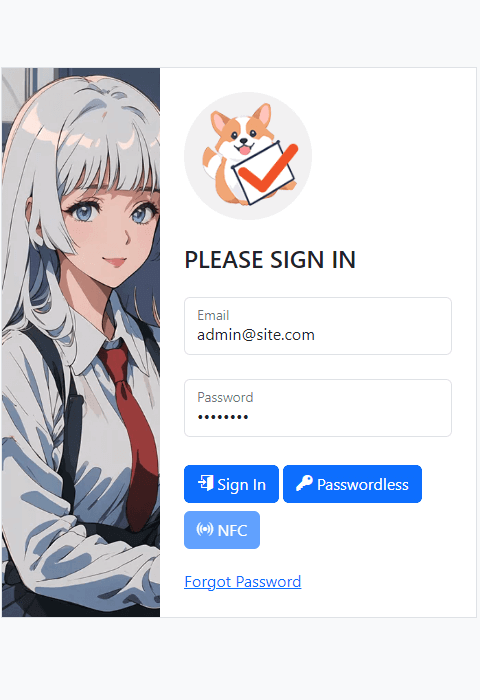
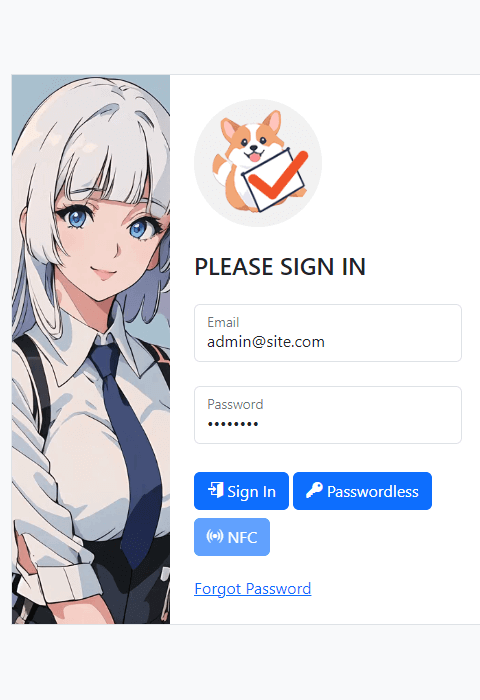
28 Sep 2023

diff --git a/lib/CORE-Install-JS.php b/lib/CORE-Install-JS.php
@@ -67,7 +67,7 @@ var install = {
     // (E1) LOCK INSTALL FORM
     install.toggle(false);
 
-    // (E2) DUMMY PROOFING TO THE MAX!
+    // (E2) URL DUMMY PROOFING TO THE MAX!
     let hHost = document.getElementsByName("host")[0],
         domain = hHost.value;
     domain = domain.trim();
@@ -77,8 +77,17 @@ var install = {
     if (domain.charAt(domain.length-1) != "/") { domain = domain + "/"; }
     hHost.value = domain;
 
+    // (E3) DUMMY PROOFING - API ENFORCE HTTPS BUT HOST URL IS NOT HTTPS
+    let https = document.getElementsByName("https")[0].value,
+        enforce = document.getElementsByName("apihttps")[0].value;
+    if (enforce==1 && https==0) {
+      alert("Please set your HOST URL to HTTPS if you want to enforce HTTPS for API calls. Also make sure that you have a valid SSL cert.");
+      install.toggle(true);
+      return false;
+    }
+
     <?php if (I_USER) { ?>
-    // (E3) ADMIN PASSWORD
+    // (E4) ADMIN PASSWORD
     var pass = document.getElementsByName("apass")[0],
         cpass = document.getElementsByName("apassc")[0];
     if (pass.value != cpass.value) {
@@ -87,7 +96,7 @@ var install = {
       return false;
     }
 
-    // (E4) PASSWORD STRENGTH CHECK - AT LEAST 8 CHARACTERS ALPHANUMERIC
+    // (E5) PASSWORD STRENGTH CHECK - AT LEAST 8 CHARACTERS ALPHANUMERIC
     if (!/^(?=.*[0-9])(?=.*[A-Z]).{8,20}$/i.test(pass.value)) {
       alert("Password must be at least 8 characters alphanumeric");
       install.toggle(true);
@@ -95,15 +104,15 @@ var install = {
     }
     <?php } ?>
 
-    // (E5) URL PATH
+    // (E6) URL PATH
     let url = (document.getElementsByName("https")[0].value=="0" ? "http" : "https")
             + "://" + domain ;
 
-    // (E6) GENERATE HTACCESS
+    // (E7) GENERATE HTACCESS
     install.ajax(url, "E1", () => {
-      // (E7) VERIFY HTACCESS
+      // (E8) VERIFY HTACCESS
       install.ajax(url + "installer/test/", "E2", () => {
-        // (E8) PROCEED INSTALLATION
+        // (E9) PROCEED INSTALLATION
         install.ajax(url, "F", () => {
           alert("Installation complete, this page will now reload.");
           location.href = url;

diff --git a/pages/PAGE-forgot.php b/pages/PAGE-forgot.php
@@ -6,6 +6,7 @@ if (isset($_SESSION["user"])) { $_CORE->redirect(); }
 if (!isset($_GET["i"]) && !isset($_GET["h"])) {
 $_PMETA = ["load" => [["s", HOST_ASSETS."PAGE-forgot.js", "defer"]]];
 require PATH_PAGES . "TEMPLATE-top.php"; ?>
+<div class="container">
 <div class="row justify-content-center">
 <div class="col-md-10 bg-white border">
 <div class="row">
@@ -31,6 +32,7 @@ require PATH_PAGES . "TEMPLATE-top.php"; ?>
 </div>
 </div>
 </div>
+</div>
 <?php require PATH_PAGES . "TEMPLATE-bottom.php"; }
 
 // (C) PART 2 - VALIDATION
@@ -38,6 +40,7 @@ else {
 $_CORE->load("Forgot");
 $pass = $_CORE->Forgot->reset($_GET["i"], $_GET["h"]);
 require PATH_PAGES . "TEMPLATE-top.php"; ?>
+<div class="container">
 <div class="row justify-content-center">
 <div class="col-md-10 bg-white border">
 <div class="row">
@@ -54,6 +57,7 @@ require PATH_PAGES . "TEMPLATE-top.php"; ?>
       <a href="<?=HOST_BASE?>login">Back To Login</a>
     </div>
   </div>
+</div>
 </div>
 </div>
 </div>

diff --git a/lib/CORE-Install-HTML.php b/lib/CORE-Install-HTML.php
@@ -12,6 +12,9 @@ unset($uHOST); unset($uIDX);
 if (I_PUSH && I_OPENSSL) {
   require PATH_LIB . "webpush/autoload.php";
   define("I_VAPID", Minishlink\WebPush\VAPID::createVapidKeys());
+  if (I_VAPID==null || I_VAPID==false || I_VAPID=="") {
+    exit("Failed to generate push notification VAPID keys. Make sure that OpenSSL is properly installed and configured.");
+  }
 }
 
 // (C) HTML ?>
@@ -77,8 +80,11 @@ if (I_PUSH && I_OPENSSL) {
           </select>
           <label>Enforce HTTPS?</label>
         </div>
+        <div class="text-secondary">
+          * Once enforced, API will only respond to HTTPS calls. Recommended for live servers.
+        </div>
         <div class="text-secondary mb-2">
-          * If enforced, API will only respond to HTTPS calls - Recommended to set "yes" for live servers.
+          * The host URL above need to be set to "HTTPS" if you want to enforce this.
         </div>
 
         <div class="form-floating mb-2">

diff --git a/pages/A-about.php b/pages/A-about.php
@@ -11,7 +11,7 @@
     <li><a href="https://code-boxx.com/i-was-here-php-attendance-system/#sec-use" target="_blank">
       How To Use?
     </a></li>
-    <li><a href="https://code-boxx.com/i-was-here-php-attendance-system/#sec-faq" target="_blank">
+    <li><a href="https://code-boxx.com/core-boxx-php-framework/#sec-faq" target="_blank">
       FAQ
     </a></li>
     <li><a href="https://code-boxx.com/i-was-here-php-attendance-system/#sec-dev" target="_blank">
@@ -35,6 +35,9 @@
   </a>
   <a class="my-1 btn btn-danger d-flex-inline" href="https://payhip.com/codeboxx" target="_blank">
     <i class="ico-sm icon-cart"></i> Code Boxx Store
+  </a>
+  <a class="my-1 btn btn-danger d-flex-inline" href="https://github.com/sponsors/code-boxx" target="_blank">
+    <i class="ico-sm icon-heart"></i> GitHub Sponsor
   </a>
 </div>
 

diff --git a/pages/PAGE-passwordless.php b/pages/PAGE-passwordless.php
@@ -14,6 +14,7 @@ $regged = is_array($_CORE->Users->hashGet($_SESSION["user"]["user_id"], "PL"));
 
 // (D) HTML PAGE
 require PATH_PAGES . "TEMPLATE-top.php"; ?>
+<div class="container">
 <div class="row justify-content-center">
 <div class="col-md-10 bg-white border">
 <div class="row">
@@ -40,6 +41,7 @@ require PATH_PAGES . "TEMPLATE-top.php"; ?>
     <!-- (D3) NOTES -->
     <div id="wa-txt" class="p-3 mt-3 text-white bg-danger d-none"></div>
   </div>
+</div>
 </div>
 </div>
 </div>

diff --git a/pages/PAGE-login.php b/pages/PAGE-login.php
@@ -19,6 +19,7 @@ require PATH_PAGES . "TEMPLATE-top.php"; ?>
 <?php } ?>
 
 <!-- (C2) LOGIN FORM -->
+<div class="container">
 <div class="row justify-content-center">
 <div class="col-md-10 bg-white border">
 <div class="row">
@@ -59,6 +60,7 @@ require PATH_PAGES . "TEMPLATE-top.php"; ?>
       <a href="<?=HOST_BASE?>forgot">Forgot Password</a>
     </div>
   </div>
+</div>
 </div>
 </div>
 </div>

diff --git a/README.md b/README.md
@@ -32,7 +32,7 @@ I Was Here is an open-source PHP Student Attendance Management System. Featuring
 
 ## :bulb: DOCUMENTATION
 1) [How To Use](https://code-boxx.com/i-was-here-php-attendance-system/#sec-use)
-2) [FAQ](https://code-boxx.com/i-was-here-php-attendance-system/#sec-faq)
+2) [FAQ](https://code-boxx.com/core-boxx-php-framework/#sec-faq)
 3) [For The Developers](https://code-boxx.com/i-was-here-php-attendance-system/#sec-dev)
 
 ## :electric_plug: FRAMEWORKS
